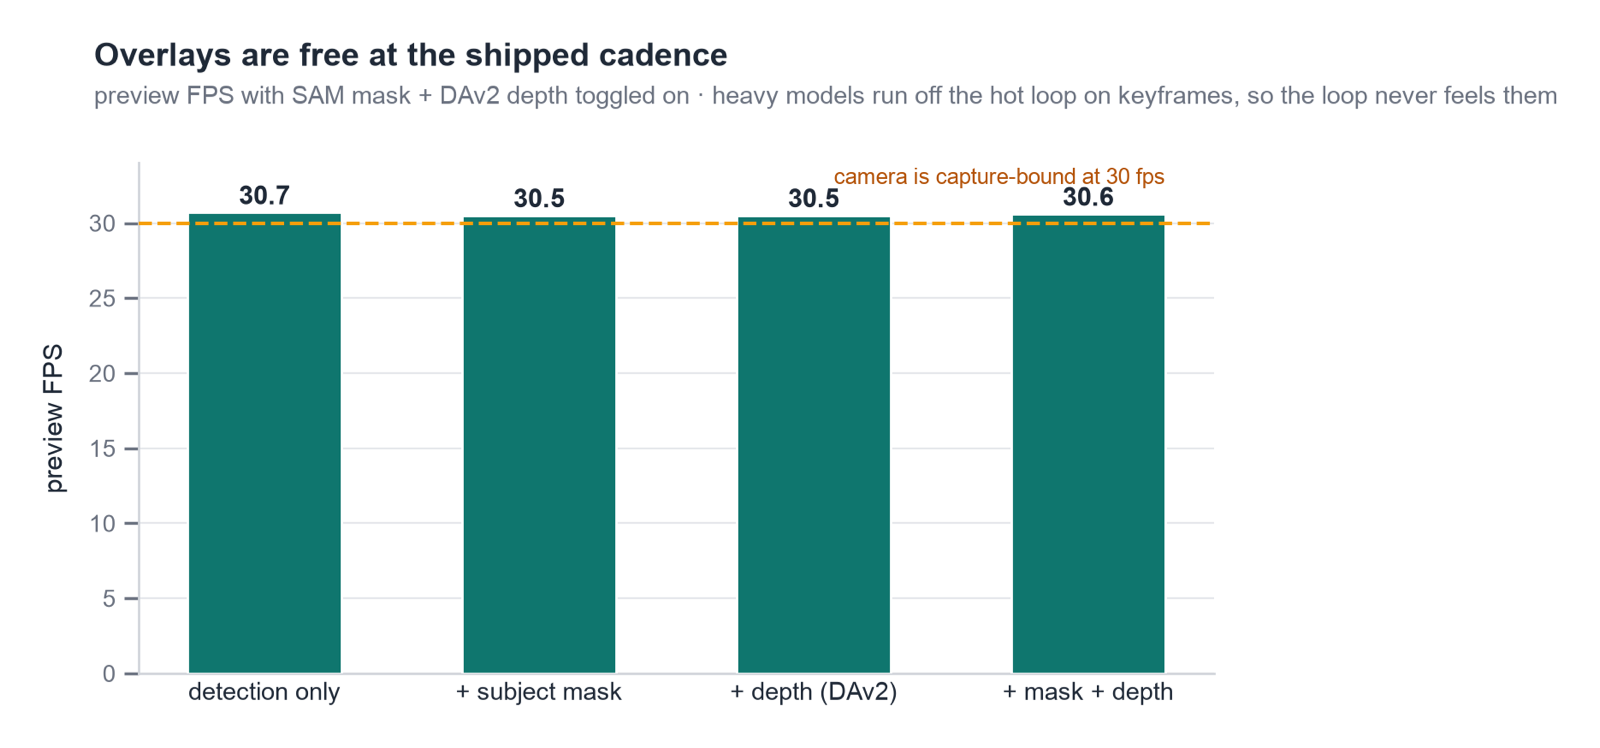
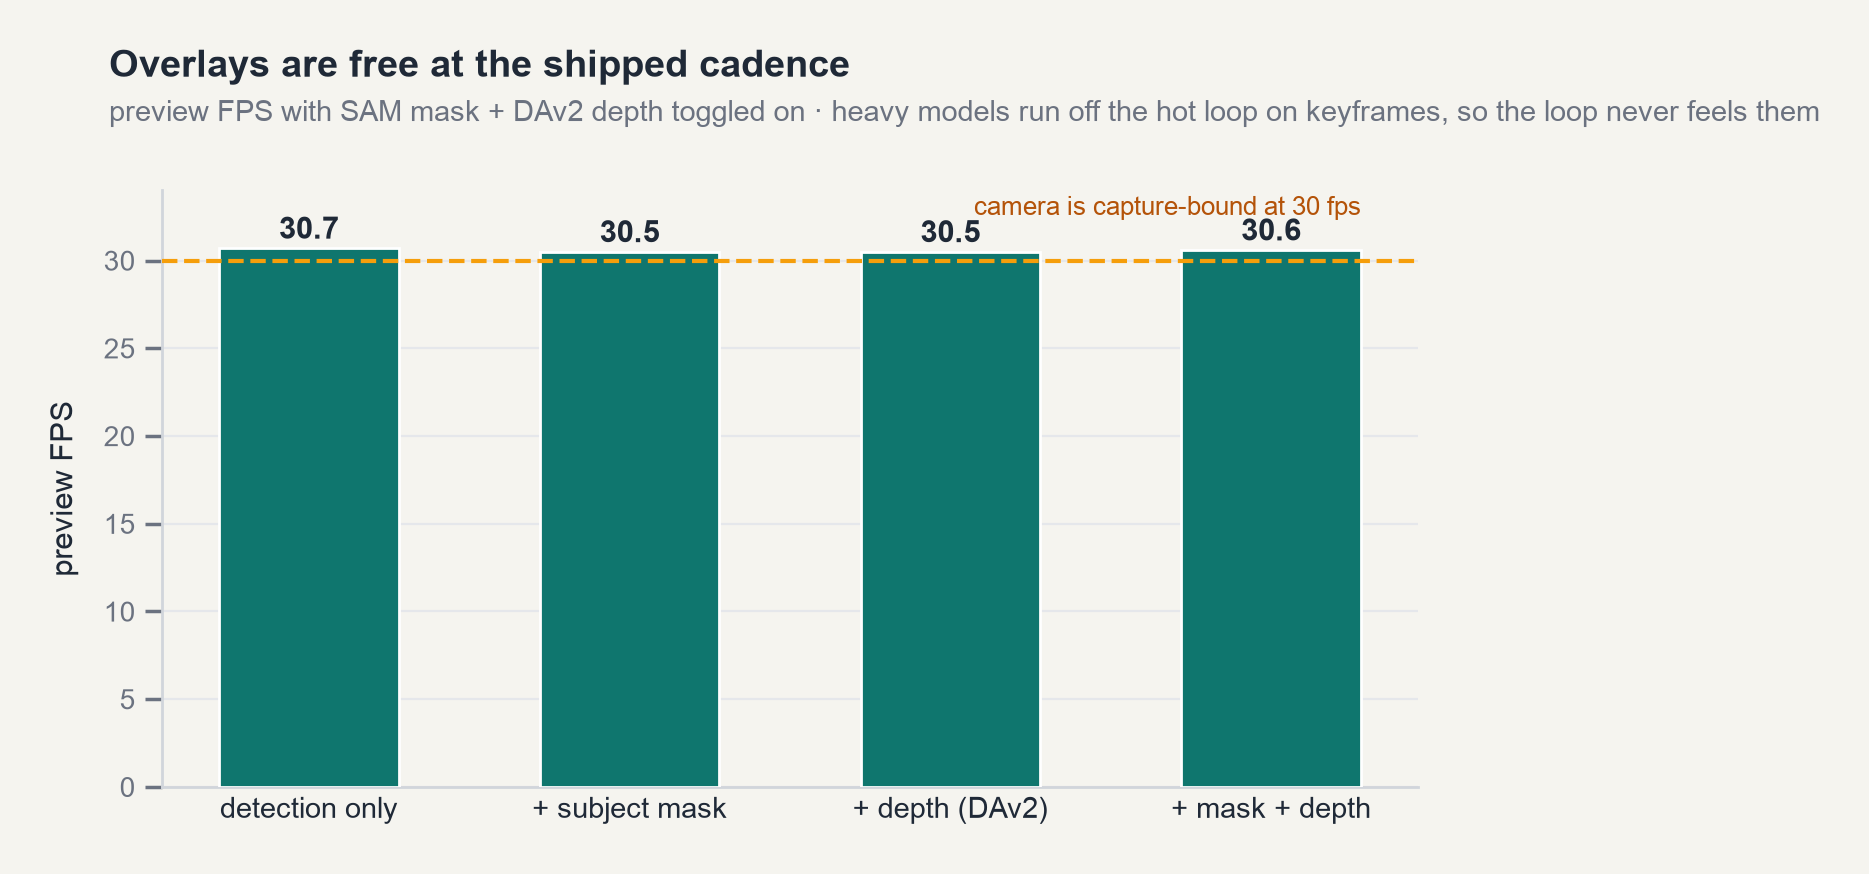
LocalLens post: cream-native figures, wider diagrams, full-size links
All 10 excalidraw diagrams re-rendered on the site background
(#F5F4EF) at full native resolution (~2200-2670px) and all 5 charts
regenerated with cream facecolor, so figures no longer sit on white
slabs. Diagrams break out to a new .article__figure--wide
(min(1280px, 96vw)) for readability; every diagram and chart now
links to its full-size file. C1 subtitle updated ('every rung from
an instrumented live capture'). Cache-bust 20260729c.

diff --git a/projects/locallens.html b/projects/locallens.html
@@ -16,7 +16,7 @@
   <link rel="preconnect" href="https://fonts.googleapis.com">
   <link rel="preconnect" href="https://fonts.gstatic.com" crossorigin>
   <link href="https://fonts.googleapis.com/css2?family=Fraunces:opsz,wght@9..144,400;9..144,500;9..144,600&family=Source+Sans+3:wght@300;400;500;600;700&display=swap" rel="stylesheet">
-  <link rel="stylesheet" href="../css/site.css?v=20260729b">
+  <link rel="stylesheet" href="../css/site.css?v=20260729c">
 </head>
 
 <body id="top">
@@ -132,8 +132,8 @@
       engineering bench (the live HUD, timeline, keyframe search, and every benchmark in this post)
       ships in the same binary behind a Developer Mode toggle.</p>
 
-      <figure class="article__figure">
-        <img src="../images/portfolio/projects/locallens/d1-system-architecture.png" alt="LocalLens system architecture diagram" width="1600" height="761" loading="lazy">
+      <figure class="article__figure article__figure--wide">
+        <a href="../images/portfolio/projects/locallens/d1-system-architecture.png" target="_blank" rel="noopener noreferrer" title="Open full size"><img src="../images/portfolio/projects/locallens/d1-system-architecture.png" alt="LocalLens system architecture diagram" width="2510" height="1196" loading="lazy"></a>
         <figcaption>Figure 2. One iPhone: sensors &rarr; GPU/ANE/CPU &rarr; spatial memory &rarr; surfaces.
         The dashed return path is the ask-and-guide loop.</figcaption>
       </figure>
@@ -208,7 +208,7 @@
       the end of this section compresses all of its evidence into one place.</p>
 
       <figure class="article__figure">
-        <img src="../images/portfolio/projects/locallens/c1-performance-ladder.png" alt="Performance ladder bar chart, 13.5 to 4.2 ms" width="1600" height="968" loading="lazy">
+        <a href="../images/portfolio/projects/locallens/c1-performance-ladder.png" target="_blank" rel="noopener noreferrer" title="Open full size"><img src="../images/portfolio/projects/locallens/c1-performance-ladder.png" alt="Performance ladder bar chart, 13.5 to 4.2 ms" width="1690" height="951" loading="lazy"></a>
         <figcaption>Figure 3. The ladder as a chart. Gray rungs changed nothing at runtime; teal rungs
         are the engineering; the coral rung is the scheduler&rsquo;s fast path.</figcaption>
       </figure>
@@ -252,8 +252,8 @@
       (Figure&nbsp;4). Measured: 8.91&thinsp;ms &rarr; 8.44&thinsp;ms p50, tail down 9%, camera lag flat. Real,
       modest, worth keeping.</p>
 
-      <figure class="article__figure">
-        <img src="../images/portfolio/projects/locallens/d2-live-pipeline.png" alt="Live pipeline swimlane diagram" width="1600" height="932" loading="lazy">
+      <figure class="article__figure article__figure--wide">
+        <a href="../images/portfolio/projects/locallens/d2-live-pipeline.png" target="_blank" rel="noopener noreferrer" title="Open full size"><img src="../images/portfolio/projects/locallens/d2-live-pipeline.png" alt="Live pipeline swimlane diagram" width="2669" height="1551" loading="lazy"></a>
         <figcaption>Figure 4. One frame&rsquo;s path through the swimlanes. The dashed band is the
         one-frame lookahead; the amber box is the scheduler deciding what the next frame runs.</figcaption>
       </figure>
@@ -289,8 +289,8 @@
       Throttle detects every 5th at 320). No I/O anywhere in the policy, which is why the whole
       state-by-content matrix is unit-tested on a Mac.</p>
 
-      <figure class="article__figure">
-        <img src="../images/portfolio/projects/locallens/d3-adaptive-scheduler.png" alt="Adaptive scheduler diagram" width="1600" height="988" loading="lazy">
+      <figure class="article__figure article__figure--wide">
+        <a href="../images/portfolio/projects/locallens/d3-adaptive-scheduler.png" target="_blank" rel="noopener noreferrer" title="Open full size"><img src="../images/portfolio/projects/locallens/d3-adaptive-scheduler.png" alt="Adaptive scheduler diagram" width="2665" height="1641" loading="lazy"></a>
         <figcaption>Figure 5. System state picks a tier ceiling; the tier plus per-frame motion
         decides what runs. A tier switch costs 179&thinsp;ms.</figcaption>
       </figure>
@@ -303,7 +303,7 @@
       retired instructions down 22.7%. A static schedule cannot produce that combination.</p>
 
       <figure class="article__figure">
-        <img src="../images/portfolio/projects/locallens/c3-scheduler-ablation.png" alt="Scheduler ablation chart" width="1600" height="745" loading="lazy">
+        <a href="../images/portfolio/projects/locallens/c3-scheduler-ablation.png" target="_blank" rel="noopener noreferrer" title="Open full size"><img src="../images/portfolio/projects/locallens/c3-scheduler-ablation.png" alt="Scheduler ablation chart" width="1984" height="924" loading="lazy"></a>
         <figcaption>Figure 6. Less work, and cheaper work, at the same 30.5 preview FPS.</figcaption>
       </figure>
 
@@ -317,7 +317,7 @@
       </div>
 
       <figure class="article__figure">
-        <img src="../images/portfolio/projects/locallens/c4-overlay-matrix.png" alt="Overlay matrix FPS chart" width="1600" height="748" loading="lazy">
+        <a href="../images/portfolio/projects/locallens/c4-overlay-matrix.png" target="_blank" rel="noopener noreferrer" title="Open full size"><img src="../images/portfolio/projects/locallens/c4-overlay-matrix.png" alt="Overlay matrix FPS chart" width="1869" height="874" loading="lazy"></a>
         <figcaption>Figure 7. The same lesson from the overlay side: with mask and depth toggled on,
         preview FPS does not move, because the heavy models run off the hot loop on a keyframe
         cadence.</figcaption>
@@ -389,7 +389,7 @@
       app ships fp16 and keeps pal6 as the size-constrained fallback.</p>
 
       <figure class="article__figure">
-        <img src="../images/portfolio/projects/locallens/c2-quant-pareto.png" alt="Quantization Pareto chart" width="1600" height="833" loading="lazy">
+        <a href="../images/portfolio/projects/locallens/c2-quant-pareto.png" target="_blank" rel="noopener noreferrer" title="Open full size"><img src="../images/portfolio/projects/locallens/c2-quant-pareto.png" alt="Quantization Pareto chart" width="1824" height="951" loading="lazy"></a>
         <figcaption>Figure 8. Accuracy loss vs size; every point carries its measured latency. pal6
         dominates int8; nothing here is faster than anything else.</figcaption>
       </figure>
@@ -430,8 +430,8 @@
       (events), appearance (embeddings), and recall. This section builds that chain; its schema is
       Figure&nbsp;9, and Figure&nbsp;10 is the chain read back in the app.</p>
 
-      <figure class="article__figure">
-        <img src="../images/portfolio/projects/locallens/d4-memory-schema.png" alt="Memory schema diagram" width="1562" height="1600" loading="lazy">
+      <figure class="article__figure article__figure--wide">
+        <a href="../images/portfolio/projects/locallens/d4-memory-schema.png" target="_blank" rel="noopener noreferrer" title="Open full size"><img src="../images/portfolio/projects/locallens/d4-memory-schema.png" alt="Memory schema diagram" width="2219" height="2273" loading="lazy"></a>
         <figcaption>Figure 9. One SQLite file: a temporal log of what the camera saw, and a semantic
         registry of what exists. The <code>position</code> blob on instances is the 3D anchor of
         Section&nbsp;5.</figcaption>
@@ -478,8 +478,8 @@
       token ids are validated against <code>open_clip</code><sup><a href="#ref-9" id="cite-9">[9]</a></sup>
       outputs in unit tests.</p>
 
-      <figure class="article__figure">
-        <img src="../images/portfolio/projects/locallens/d5-recall-dataflow.png" alt="Recall dataflow diagram" width="1600" height="530" loading="lazy">
+      <figure class="article__figure article__figure--wide">
+        <a href="../images/portfolio/projects/locallens/d5-recall-dataflow.png" target="_blank" rel="noopener noreferrer" title="Open full size"><img src="../images/portfolio/projects/locallens/d5-recall-dataflow.png" alt="Recall dataflow diagram" width="2651" height="878" loading="lazy"></a>
         <figcaption>Figure 11. Text and image queries meet in the same 512-d space; category recall
         bypasses embeddings entirely.</figcaption>
       </figure>
@@ -509,8 +509,8 @@
       observations, and a guidance UX that went through four designs before one was honest about its
       own error sources.</p>
 
-      <figure class="article__figure">
-        <img src="../images/portfolio/projects/locallens/d6-ar-perception-loop.png" alt="AR perception loop diagram" width="1600" height="1020" loading="lazy">
+      <figure class="article__figure article__figure--wide">
+        <a href="../images/portfolio/projects/locallens/d6-ar-perception-loop.png" target="_blank" rel="noopener noreferrer" title="Open full size"><img src="../images/portfolio/projects/locallens/d6-ar-perception-loop.png" alt="AR perception loop diagram" width="2487" height="1585" loading="lazy"></a>
         <figcaption>Figure 12. Every 6th ARFrame: gate, detect on the upright image, fuse depth,
         unproject in buffer space. Roughly 10&thinsp;Hz of perception beside 60&thinsp;fps tracking.</figcaption>
       </figure>
@@ -542,8 +542,8 @@
       with no ARKit types; the fit ran against synthetic cases on a Mac before it ever ran in AR,
       which caught a constant-patch conditioning bug off-device.</p>
 
-      <figure class="article__figure">
-        <img src="../images/portfolio/projects/locallens/d7-depth-fusion.png" alt="Depth fusion diagram" width="1600" height="867" loading="lazy">
+      <figure class="article__figure article__figure--wide">
+        <a href="../images/portfolio/projects/locallens/d7-depth-fusion.png" target="_blank" rel="noopener noreferrer" title="Open full size"><img src="../images/portfolio/projects/locallens/d7-depth-fusion.png" alt="Depth fusion diagram" width="2665" height="1437" loading="lazy"></a>
         <figcaption>Figure 13. Sparse-but-metric plus dense-but-relative, aligned by scale and shift
         where the ambiguity actually lives.</figcaption>
       </figure>
@@ -578,7 +578,7 @@
       </div>
 
       <figure class="article__figure">
-        <img src="../images/portfolio/projects/locallens/c5-reanchor-gaps.png" alt="Re-anchor gap histogram" width="1600" height="835" loading="lazy">
+        <a href="../images/portfolio/projects/locallens/c5-reanchor-gaps.png" target="_blank" rel="noopener noreferrer" title="Open full size"><img src="../images/portfolio/projects/locallens/c5-reanchor-gaps.png" alt="Re-anchor gap histogram" width="1747" height="913" loading="lazy"></a>
         <figcaption>Figure 14. Raw pre-EMA re-anchor gaps from one live session after all hardening.
         The median tells the truth; the tail is why the clamp exists.</figcaption>
       </figure>
@@ -619,8 +619,8 @@
       the app controls, not a sentence in the prompt. Figure&nbsp;16 is the sequence; Figure&nbsp;18 is the
       enforcement.</p>
 
-      <figure class="article__figure">
-        <img src="../images/portfolio/projects/locallens/d8-agent-sequence.png" alt="Agent sequence diagram" width="1600" height="725" loading="lazy">
+      <figure class="article__figure article__figure--wide">
+        <a href="../images/portfolio/projects/locallens/d8-agent-sequence.png" target="_blank" rel="noopener noreferrer" title="Open full size"><img src="../images/portfolio/projects/locallens/d8-agent-sequence.png" alt="Agent sequence diagram" width="2666" height="1209" loading="lazy"></a>
         <figcaption>Figure 16. A fresh session per question, tools that record what they returned,
         typed gates, and a human who does the navigating.</figcaption>
       </figure>
@@ -688,8 +688,8 @@
       yet&rdquo;), and questions about people get their own truthful line (&ldquo;I don&rsquo;t keep track of where
       people are, only things&rdquo;). The words and the missing button finally agree.</p>
 
-      <figure class="article__figure">
-        <img src="../images/portfolio/projects/locallens/d9-guardrail-flow.png" alt="Guardrail decision flow diagram" width="1405" height="1600" loading="lazy">
+      <figure class="article__figure article__figure--wide">
+        <a href="../images/portfolio/projects/locallens/d9-guardrail-flow.png" target="_blank" rel="noopener noreferrer" title="Open full size"><img src="../images/portfolio/projects/locallens/d9-guardrail-flow.png" alt="Guardrail decision flow diagram" width="2309" height="2629" loading="lazy"></a>
         <figcaption>Figure 18. How a proposal becomes a target. Green paths carry only ids the
         model&rsquo;s own tool calls returned.</figcaption>
       </figure>
@@ -710,8 +710,8 @@
       catches that case). That proximity rule earns its final, much tighter form in
       Section&nbsp;<a href="#s7">7</a>, after look-alike twins abuse the generous version.</p>
 
-      <figure class="article__figure">
-        <img src="../images/portfolio/projects/locallens/d10-guidance-states.png" alt="Guidance state machine diagram" width="1600" height="974" loading="lazy">
+      <figure class="article__figure article__figure--wide">
+        <a href="../images/portfolio/projects/locallens/d10-guidance-states.png" target="_blank" rel="noopener noreferrer" title="Open full size"><img src="../images/portfolio/projects/locallens/d10-guidance-states.png" alt="Guidance state machine diagram" width="2456" height="1506" loading="lazy"></a>
         <figcaption>Figure 19. Map the space, ask the memory, walk over with live verification.
         Perception pauses only while asking.</figcaption>
       </figure>
@@ -1005,7 +1005,7 @@
     </div>
   </footer>
 
-  <script src="../js/site.js?v=20260729b"></script>
+  <script src="../js/site.js?v=20260729c"></script>
 </body>
 
 </html>

diff --git a/index.html b/index.html
@@ -10,7 +10,7 @@
   <link rel="preconnect" href="https://fonts.googleapis.com">
   <link rel="preconnect" href="https://fonts.gstatic.com" crossorigin>
   <link href="https://fonts.googleapis.com/css2?family=Fraunces:opsz,wght@9..144,400;9..144,500;9..144,600&family=Source+Sans+3:wght@300;400;500;600;700&display=swap" rel="stylesheet">
-  <link rel="stylesheet" href="css/site.css?v=20260729b">
+  <link rel="stylesheet" href="css/site.css?v=20260729c">
 </head>
 
 <body id="top">
@@ -58,8 +58,8 @@
     </section>
   </main>
 
-  <script src="js/terminal-core.js?v=20260729b" defer></script>
-  <script src="js/terminal.js?v=20260729b" defer></script>
+  <script src="js/terminal-core.js?v=20260729c" defer></script>
+  <script src="js/terminal.js?v=20260729c" defer></script>
 </body>
 
 </html>

diff --git a/css/site.css b/css/site.css
@@ -151,6 +151,8 @@ h1, h2, h3, h4 {
 .article__figure figcaption { font-family: var(--font-mono); font-size: 0.78rem; color: var(--muted); line-height: 1.5; margin-top: 0.6rem; }
 .article__figure video { width: 100%; border-radius: 8px; display: block; }
 .article__figure--narrow { width: min(420px, 92vw); }
+.article__figure--wide { width: min(1280px, 96vw); }
+.article__figure a { display: block; }
 .article__shots { display: flex; gap: 10px; justify-content: center; align-items: flex-start; }
 .article__shots img { flex: 1 1 0; min-width: 0; border-radius: 8px; }
 .article__math { font-family: var(--font-mono); font-size: 0.95rem; text-align: center; margin: 1.25rem 0; color: var(--fg); }

diff --git a/blog/index.html b/blog/index.html
@@ -10,7 +10,7 @@
   <link rel="preconnect" href="https://fonts.googleapis.com">
   <link rel="preconnect" href="https://fonts.gstatic.com" crossorigin>
   <link href="https://fonts.googleapis.com/css2?family=Fraunces:opsz,wght@9..144,400;9..144,500;9..144,600&family=Source+Sans+3:wght@300;400;500;600;700&display=swap" rel="stylesheet">
-  <link rel="stylesheet" href="../css/site.css?v=20260729b">
+  <link rel="stylesheet" href="../css/site.css?v=20260729c">
 </head>
 
 <body id="top">
@@ -65,7 +65,7 @@
     </div>
   </footer>
 
-  <script src="../js/site.js?v=20260729b"></script>
+  <script src="../js/site.js?v=20260729c"></script>
 </body>
 
 </html>

diff --git a/projects/autonomous-vehicle.html b/projects/autonomous-vehicle.html
@@ -10,7 +10,7 @@
   <link rel="preconnect" href="https://fonts.googleapis.com">
   <link rel="preconnect" href="https://fonts.gstatic.com" crossorigin>
   <link href="https://fonts.googleapis.com/css2?family=Fraunces:opsz,wght@9..144,400;9..144,500;9..144,600&family=Source+Sans+3:wght@300;400;500;600;700&display=swap" rel="stylesheet">
-  <link rel="stylesheet" href="../css/site.css?v=20260729b">
+  <link rel="stylesheet" href="../css/site.css?v=20260729c">
 </head>
 
 <body id="top">
@@ -63,7 +63,7 @@
     </div>
   </footer>
 
-  <script src="../js/site.js?v=20260729b"></script>
+  <script src="../js/site.js?v=20260729c"></script>
 </body>
 
 </html>

diff --git a/projects/bag-ewatch.html b/projects/bag-ewatch.html
@@ -10,7 +10,7 @@
   <link rel="preconnect" href="https://fonts.googleapis.com">
   <link rel="preconnect" href="https://fonts.gstatic.com" crossorigin>
   <link href="https://fonts.googleapis.com/css2?family=Fraunces:opsz,wght@9..144,400;9..144,500;9..144,600&family=Source+Sans+3:wght@300;400;500;600;700&display=swap" rel="stylesheet">
-  <link rel="stylesheet" href="../css/site.css?v=20260729b">
+  <link rel="stylesheet" href="../css/site.css?v=20260729c">
 </head>
 
 <body id="top">
@@ -62,7 +62,7 @@
     </div>
   </footer>
 
-  <script src="../js/site.js?v=20260729b"></script>
+  <script src="../js/site.js?v=20260729c"></script>
 </body>
 
 </html>

diff --git a/projects/image-augmenter.html b/projects/image-augmenter.html
@@ -10,7 +10,7 @@
   <link rel="preconnect" href="https://fonts.googleapis.com">
   <link rel="preconnect" href="https://fonts.gstatic.com" crossorigin>
   <link href="https://fonts.googleapis.com/css2?family=Fraunces:opsz,wght@9..144,400;9..144,500;9..144,600&family=Source+Sans+3:wght@300;400;500;600;700&display=swap" rel="stylesheet">
-  <link rel="stylesheet" href="../css/site.css?v=20260729b">
+  <link rel="stylesheet" href="../css/site.css?v=20260729c">
 </head>
 
 <body id="top">
@@ -55,7 +55,7 @@
     </div>
   </footer>
 
-  <script src="../js/site.js?v=20260729b"></script>
+  <script src="../js/site.js?v=20260729c"></script>
 </body>
 
 </html>

diff --git a/projects/index.html b/projects/index.html
@@ -10,7 +10,7 @@
   <link rel="preconnect" href="https://fonts.googleapis.com">
   <link rel="preconnect" href="https://fonts.gstatic.com" crossorigin>
   <link href="https://fonts.googleapis.com/css2?family=Fraunces:opsz,wght@9..144,400;9..144,500;9..144,600&family=Source+Sans+3:wght@300;400;500;600;700&display=swap" rel="stylesheet">
-  <link rel="stylesheet" href="../css/site.css?v=20260729b">
+  <link rel="stylesheet" href="../css/site.css?v=20260729c">
 </head>
 
 <body id="top">
@@ -85,7 +85,7 @@
     </div>
   </footer>
 
-  <script src="../js/site.js?v=20260729b"></script>
+  <script src="../js/site.js?v=20260729c"></script>
 </body>
 
 </html>

diff --git a/projects/tabla-tala.html b/projects/tabla-tala.html
@@ -10,7 +10,7 @@
   <link rel="preconnect" href="https://fonts.googleapis.com">
   <link rel="preconnect" href="https://fonts.gstatic.com" crossorigin>
   <link href="https://fonts.googleapis.com/css2?family=Fraunces:opsz,wght@9..144,400;9..144,500;9..144,600&family=Source+Sans+3:wght@300;400;500;600;700&display=swap" rel="stylesheet">
-  <link rel="stylesheet" href="../css/site.css?v=20260729b">
+  <link rel="stylesheet" href="../css/site.css?v=20260729c">
 </head>
 
 <body id="top">
@@ -57,7 +57,7 @@
     </div>
   </footer>
 
-  <script src="../js/site.js?v=20260729b"></script>
+  <script src="../js/site.js?v=20260729c"></script>
 </body>
 
 </html>

diff --git a/projects/youtube-subscriber-counter.html b/projects/youtube-subscriber-counter.html
@@ -10,7 +10,7 @@
   <link rel="preconnect" href="https://fonts.googleapis.com">
   <link rel="preconnect" href="https://fonts.gstatic.com" crossorigin>
   <link href="https://fonts.googleapis.com/css2?family=Fraunces:opsz,wght@9..144,400;9..144,500;9..144,600&family=Source+Sans+3:wght@300;400;500;600;700&display=swap" rel="stylesheet">
-  <link rel="stylesheet" href="../css/site.css?v=20260729b">
+  <link rel="stylesheet" href="../css/site.css?v=20260729c">
 </head>
 
 <body id="top">
@@ -62,7 +62,7 @@
     </div>
   </footer>
 
-  <script src="../js/site.js?v=20260729b"></script>
+  <script src="../js/site.js?v=20260729c"></script>
 </body>
 
 </html>
